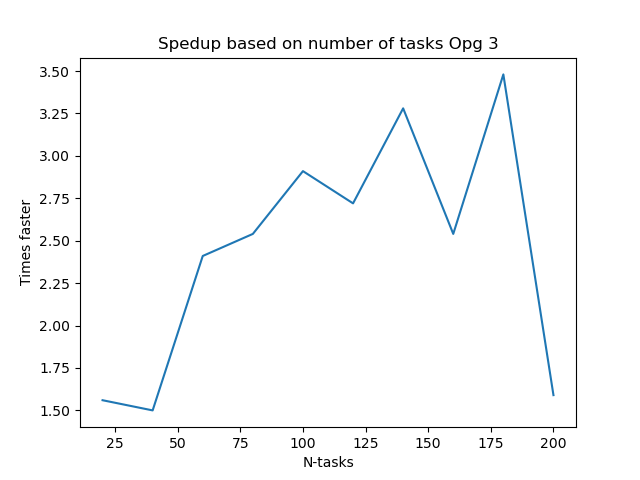
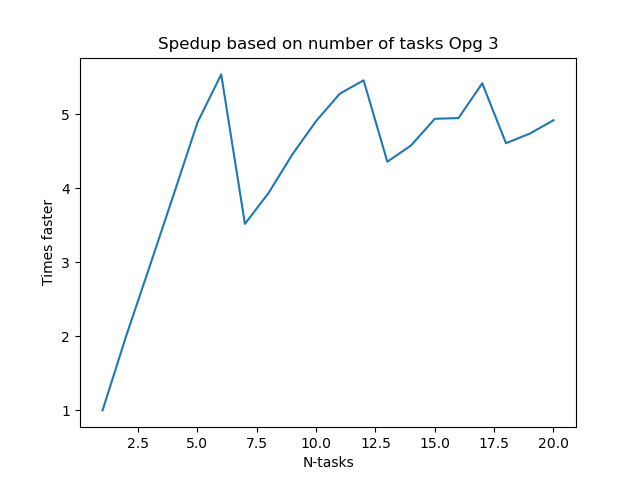
Fix

diff --git a/bin/plot.py b/bin/plot.py
@@ -1,23 +1,26 @@
 import matplotlib.pyplot as plt
-data_uden_warmup = [0.212975, 0.174472, 0.152527, 0.143930, 0.151221, 0.158211, 0.052915, 0.056080, 0.174958, 0.035867, 0.035641, 0.198618, 0.036725, 0.036281, 0.164042, 0.035632, 0.035314, 0.252750, 0.054047, 0.055133, 0.054456, 0.270833, 0.035526, 0.035689, 0.035712, 0.295864, 0.036604, 0.036659, 0.036165, 0.253618, 0.035586, 0.035273, 0.035436, 0.228434, 0.087285, 0.069701, 0.076515, 0.291319, 0.035509, 0.035267, 0.036243, 0.035281, 0.226859, 0.035588, 0.036879, 0.036349, 0.035470, 0.232586, 0.037855, 0.036242, 0.035504, 0.181810, 0.071426, 0.060176, 0.056568, 0.059156, 0.169686, 0.035356, 0.035713, 0.036220, 0.035240, 0.143114, 0.035612, 0.036310, 0.036103, 0.036290, 0.178495, 0.036316, 0.035474, 0.035189, 0.034996, 0.184261, 0.054259, 0.054409, 0.055066, 0.055134, 0.194244, 0.035546, 0.035313, 0.035770, 0.035252, 0.036234, 0.156307, 0.035343, 0.035610, 0.035480, 0.035948, 0.035123, 0.197573, 0.035245, 0.035861, 0.035846, 0.035458, 0.163210, 0.054041, 0.055246, 0.054969, 0.039240, 0.035314, 0.035199]
+# data_uden_warmup = [0.212975, 0.174472, 0.152527, 0.143930, 0.151221, 0.158211, 0.052915, 0.056080, 0.174958, 0.035867, 0.035641, 0.198618, 0.036725, 0.036281, 0.164042, 0.035632, 0.035314, 0.252750, 0.054047, 0.055133, 0.054456, 0.270833, 0.035526, 0.035689, 0.035712, 0.295864, 0.036604, 0.036659, 0.036165, 0.253618, 0.035586, 0.035273, 0.035436, 0.228434, 0.087285, 0.069701, 0.076515, 0.291319, 0.035509, 0.035267, 0.036243, 0.035281, 0.226859, 0.035588, 0.036879, 0.036349, 0.035470, 0.232586, 0.037855, 0.036242, 0.035504, 0.181810, 0.071426, 0.060176, 0.056568, 0.059156, 0.169686, 0.035356, 0.035713, 0.036220, 0.035240, 0.143114, 0.035612, 0.036310, 0.036103, 0.036290, 0.178495, 0.036316, 0.035474, 0.035189, 0.034996, 0.184261, 0.054259, 0.054409, 0.055066, 0.055134, 0.194244, 0.035546, 0.035313, 0.035770, 0.035252, 0.036234, 0.156307, 0.035343, 0.035610, 0.035480, 0.035948, 0.035123, 0.197573, 0.035245, 0.035861, 0.035846, 0.035458, 0.163210, 0.054041, 0.055246, 0.054969, 0.039240, 0.035314, 0.035199]
 
 # [0.210100, 0.172824, 0.149149, 0.151445, 0.142680, 0.150652, 0.053695, 0.056129, 0.168423, 0.037253, 0.036286, 0.171982, 0.036208, 0.036222, 0.171257, 0.056967, 0.036649, 0.217195, 0.055091, 0.053870, 0.053299, 0.286071, 0.035918, 0.037440, 0.036495, 0.261881, 0.037560, 0.037376, 0.036053, 0.290983, 0.036354, 0.035871, 0.035481, 0.203407, 0.052571, 0.053533, 0.054489, 0.167781, 0.036436, 0.036772, 0.036935, 0.035957, 0.190683, 0.036152, 0.035891, 0.036830, 0.036258, 0.227145, 0.035952, 0.036318, 0.036275, 0.151808, 0.060970, 0.055316, 0.058087, 0.057695, 0.211721, 0.039244, 0.036892, 0.035931, 0.037262, 0.160350, 0.038508, 0.036512, 0.037072, 0.035943, 0.151582, 0.040458, 0.036614, 0.037194, 0.036993, 0.036881, 0.229521, 0.057788, 0.056169, 0.058197, 0.059052, 0.196557, 0.038524, 0.035811, 0.035263, 0.036998, 0.164132, 0.036222, 0.036597, 0.037418, 0.036185, 0.290315, 0.037162, 0.036350, 0.036866, 0.037596, 0.186488, 0.058778, 0.055962, 0.057152, 0.037378, 0.036189, 0.154922, 0.038006]
 
+data_uden_warmup = [0.071208, 0.076072, 0.036135, 0.035931, 0.035929, 0.035828, 0.035991, 0.035846, 0.035779, 0.035838, 0.036056, 0.036857, 0.036987, 0.036890, 0.036483, 0.036633, 0.036615, 0.037141, 0.038525, 0.036773, 0.036768, 0.036673, 0.036252, 0.035837, 0.035794, 0.036264, 0.036982, 0.036272, 0.036628, 0.036643, 0.036748, 0.037149, 0.036687, 0.036746, 0.036709, 0.037203, 0.036690, 0.036668, 0.036770, 0.036769, 0.036644, 0.036698, 0.036764, 0.036710, 0.036658, 0.036709, 0.036670, 0.036729, 0.036689, 0.036458, 0.035901, 0.036006, 0.035976, 0.035764, 0.035764, 0.035720, 0.035725, 0.035958, 0.035889, 0.035927, 0.035953, 0.035869, 0.035876, 0.035947, 0.035793, 0.035762, 0.035836, 0.035747, 0.035723, 0.035709, 0.035752, 0.035680, 0.035724, 0.035736, 0.035786, 0.035718, 0.035803, 0.035856, 0.035937, 0.035906, 0.036014, 0.035821, 0.035819, 0.035843, 0.035786, 0.035783, 0.035769, 0.035759, 0.035796, 0.035770, 0.035769, 0.035857, 0.035873, 0.035822, 0.035799, 0.035827, 0.035804, 0.035931, 0.036024, 0.035750]
 plt.plot(data_uden_warmup)
 plt.title("Data without warmup")
 plt.xlabel("Run number")
 plt.ylabel("Time used")
-plt.ylim(0, 0.3)
+plt.ylim(0, 0.1)
 plt.show()
-data_med_warmup = [0.034043, 0.156196, 0.035006, 0.034551, 0.149085, 0.035379, 0.035815, 0.194780, 0.052405, 0.053229, 0.052648, 0.286280, 0.036541, 0.034793, 0.034691, 0.248357, 0.034977, 0.034857, 0.034638, 0.239770, 0.034603, 0.034438, 0.034769, 0.202390, 0.053852, 0.051952, 0.052590, 0.160135, 0.034777, 0.034644, 0.034507, 0.034786, 0.153302, 0.037990, 0.038093, 0.035133, 0.034621, 0.237810, 0.034601, 0.035039, 0.034939, 0.153307, 0.054377, 0.052937, 0.052407, 0.052147, 0.184519, 0.037653, 0.037487, 0.035076, 0.034520, 0.130491, 0.036564, 0.035962, 0.035719, 0.036909, 0.152262, 0.035139, 0.035151, 0.035051, 0.034223, 0.034726, 0.179313, 0.054484, 0.052073, 0.052272, 0.053131, 0.049795, 0.225421, 0.035480, 0.035120, 0.034826, 0.034832, 0.149016, 0.034398, 0.034435, 0.034687, 0.034477, 0.034883, 0.238061, 0.036239, 0.035414, 0.034888, 0.034924, 0.130374, 0.058083, 0.055655, 0.054646, 0.038286, 0.035027, 0.034708, 0.195417, 0.035366, 0.034704, 0.035498, 0.037927, 0.036112, 0.176814, 0.034816, 0.035398]
+
+# data_med_warmup = [0.034043, 0.156196, 0.035006, 0.034551, 0.149085, 0.035379, 0.035815, 0.194780, 0.052405, 0.053229, 0.052648, 0.286280, 0.036541, 0.034793, 0.034691, 0.248357, 0.034977, 0.034857, 0.034638, 0.239770, 0.034603, 0.034438, 0.034769, 0.202390, 0.053852, 0.051952, 0.052590, 0.160135, 0.034777, 0.034644, 0.034507, 0.034786, 0.153302, 0.037990, 0.038093, 0.035133, 0.034621, 0.237810, 0.034601, 0.035039, 0.034939, 0.153307, 0.054377, 0.052937, 0.052407, 0.052147, 0.184519, 0.037653, 0.037487, 0.035076, 0.034520, 0.130491, 0.036564, 0.035962, 0.035719, 0.036909, 0.152262, 0.035139, 0.035151, 0.035051, 0.034223, 0.034726, 0.179313, 0.054484, 0.052073, 0.052272, 0.053131, 0.049795, 0.225421, 0.035480, 0.035120, 0.034826, 0.034832, 0.149016, 0.034398, 0.034435, 0.034687, 0.034477, 0.034883, 0.238061, 0.036239, 0.035414, 0.034888, 0.034924, 0.130374, 0.058083, 0.055655, 0.054646, 0.038286, 0.035027, 0.034708, 0.195417, 0.035366, 0.034704, 0.035498, 0.037927, 0.036112, 0.176814, 0.034816, 0.035398]
 
 # [0.035246, 0.162305, 0.037611, 0.035229, 0.152381, 0.036491, 0.034936, 0.243561, 0.053046, 0.053301, 0.053463, 0.275273, 0.034740, 0.034732, 0.035859, 0.261714, 0.036340, 0.036247, 0.036363, 0.266772, 0.036028, 0.035496, 0.036511, 0.337484, 0.052800, 0.052928, 0.052343, 0.288694, 0.035230, 0.035042, 0.035934, 0.034998, 0.153642, 0.034739, 0.034726, 0.035281, 0.035018, 0.218525, 0.045610, 0.035420, 0.035376, 0.153175, 0.051872, 0.053154, 0.053158, 0.052064, 0.194558, 0.038916, 0.035339, 0.034915, 0.034739, 0.247466, 0.035708, 0.035685, 0.035099, 0.035341, 0.199714, 0.035477, 0.035321, 0.035493, 0.034747, 0.269677, 0.054646, 0.055469, 0.053283, 0.056764, 0.179253, 0.036197, 0.035806, 0.035980, 0.034967, 0.147534, 0.035557, 0.035171, 0.034972, 0.034901, 0.034920, 0.227790, 0.036402, 0.035638, 0.035113, 0.035376, 0.182977, 0.055264, 0.055899, 0.046147, 0.035067, 0.168669, 0.038052, 0.035806, 0.035085, 0.035328, 0.155241, 0.038602, 0.036511, 0.034902, 0.034834, 0.034605, 0.208266, 0.034975]
 
+data_med_warmup = [0.035943, 0.036787, 0.037468, 0.036651, 0.036852, 0.036796, 0.036723, 0.036658, 0.036726, 0.036514, 0.035810, 0.036717, 0.037222, 0.036676, 0.036700, 0.036784, 0.036308, 0.036577, 0.036681, 0.036739, 0.036617, 0.036669, 0.036626, 0.036618, 0.036697, 0.036687, 0.036726, 0.036702, 0.036667, 0.036654, 0.036604, 0.036709, 0.036669, 0.036669, 0.036656, 0.036705, 0.036710, 0.036617, 0.036616, 0.036229, 0.035859, 0.035977, 0.036043, 0.035740, 0.035779, 0.035923, 0.035782, 0.035803, 0.035781, 0.035838, 0.035751, 0.035752, 0.035776, 0.035834, 0.035749, 0.035763, 0.035730, 0.035748, 0.035672, 0.035861, 0.035789, 0.035751, 0.035797, 0.035856, 0.035809, 0.036284, 0.035861, 0.035853, 0.035795, 0.035795, 0.035929, 0.035787, 0.035874, 0.035916, 0.035766, 0.035822, 0.035895, 0.035914, 0.035795, 0.035867, 0.035833, 0.035798, 0.035825, 0.035910, 0.035834, 0.035804, 0.035734, 0.036222, 0.035797, 0.035776, 0.035830, 0.035959, 0.035982, 0.035814, 0.035908, 0.035899, 0.035977, 0.037467, 0.036208, 0.035844]
 plt.plot(data_med_warmup)
 plt.title("Data with warmup")
 plt.xlabel("Run number")
 plt.ylabel("Time used")
-plt.ylim(0, 0.3)
+plt.ylim(0, 0.1)
 plt.show()
 
 plt.hist(data_med_warmup)

diff --git a/src/plot.py b/src/plot.py
@@ -1,23 +1,26 @@
 import matplotlib.pyplot as plt
-data_uden_warmup = [0.212975, 0.174472, 0.152527, 0.143930, 0.151221, 0.158211, 0.052915, 0.056080, 0.174958, 0.035867, 0.035641, 0.198618, 0.036725, 0.036281, 0.164042, 0.035632, 0.035314, 0.252750, 0.054047, 0.055133, 0.054456, 0.270833, 0.035526, 0.035689, 0.035712, 0.295864, 0.036604, 0.036659, 0.036165, 0.253618, 0.035586, 0.035273, 0.035436, 0.228434, 0.087285, 0.069701, 0.076515, 0.291319, 0.035509, 0.035267, 0.036243, 0.035281, 0.226859, 0.035588, 0.036879, 0.036349, 0.035470, 0.232586, 0.037855, 0.036242, 0.035504, 0.181810, 0.071426, 0.060176, 0.056568, 0.059156, 0.169686, 0.035356, 0.035713, 0.036220, 0.035240, 0.143114, 0.035612, 0.036310, 0.036103, 0.036290, 0.178495, 0.036316, 0.035474, 0.035189, 0.034996, 0.184261, 0.054259, 0.054409, 0.055066, 0.055134, 0.194244, 0.035546, 0.035313, 0.035770, 0.035252, 0.036234, 0.156307, 0.035343, 0.035610, 0.035480, 0.035948, 0.035123, 0.197573, 0.035245, 0.035861, 0.035846, 0.035458, 0.163210, 0.054041, 0.055246, 0.054969, 0.039240, 0.035314, 0.035199]
+# data_uden_warmup = [0.212975, 0.174472, 0.152527, 0.143930, 0.151221, 0.158211, 0.052915, 0.056080, 0.174958, 0.035867, 0.035641, 0.198618, 0.036725, 0.036281, 0.164042, 0.035632, 0.035314, 0.252750, 0.054047, 0.055133, 0.054456, 0.270833, 0.035526, 0.035689, 0.035712, 0.295864, 0.036604, 0.036659, 0.036165, 0.253618, 0.035586, 0.035273, 0.035436, 0.228434, 0.087285, 0.069701, 0.076515, 0.291319, 0.035509, 0.035267, 0.036243, 0.035281, 0.226859, 0.035588, 0.036879, 0.036349, 0.035470, 0.232586, 0.037855, 0.036242, 0.035504, 0.181810, 0.071426, 0.060176, 0.056568, 0.059156, 0.169686, 0.035356, 0.035713, 0.036220, 0.035240, 0.143114, 0.035612, 0.036310, 0.036103, 0.036290, 0.178495, 0.036316, 0.035474, 0.035189, 0.034996, 0.184261, 0.054259, 0.054409, 0.055066, 0.055134, 0.194244, 0.035546, 0.035313, 0.035770, 0.035252, 0.036234, 0.156307, 0.035343, 0.035610, 0.035480, 0.035948, 0.035123, 0.197573, 0.035245, 0.035861, 0.035846, 0.035458, 0.163210, 0.054041, 0.055246, 0.054969, 0.039240, 0.035314, 0.035199]
 
 # [0.210100, 0.172824, 0.149149, 0.151445, 0.142680, 0.150652, 0.053695, 0.056129, 0.168423, 0.037253, 0.036286, 0.171982, 0.036208, 0.036222, 0.171257, 0.056967, 0.036649, 0.217195, 0.055091, 0.053870, 0.053299, 0.286071, 0.035918, 0.037440, 0.036495, 0.261881, 0.037560, 0.037376, 0.036053, 0.290983, 0.036354, 0.035871, 0.035481, 0.203407, 0.052571, 0.053533, 0.054489, 0.167781, 0.036436, 0.036772, 0.036935, 0.035957, 0.190683, 0.036152, 0.035891, 0.036830, 0.036258, 0.227145, 0.035952, 0.036318, 0.036275, 0.151808, 0.060970, 0.055316, 0.058087, 0.057695, 0.211721, 0.039244, 0.036892, 0.035931, 0.037262, 0.160350, 0.038508, 0.036512, 0.037072, 0.035943, 0.151582, 0.040458, 0.036614, 0.037194, 0.036993, 0.036881, 0.229521, 0.057788, 0.056169, 0.058197, 0.059052, 0.196557, 0.038524, 0.035811, 0.035263, 0.036998, 0.164132, 0.036222, 0.036597, 0.037418, 0.036185, 0.290315, 0.037162, 0.036350, 0.036866, 0.037596, 0.186488, 0.058778, 0.055962, 0.057152, 0.037378, 0.036189, 0.154922, 0.038006]
 
+data_uden_warmup = [0.071208, 0.076072, 0.036135, 0.035931, 0.035929, 0.035828, 0.035991, 0.035846, 0.035779, 0.035838, 0.036056, 0.036857, 0.036987, 0.036890, 0.036483, 0.036633, 0.036615, 0.037141, 0.038525, 0.036773, 0.036768, 0.036673, 0.036252, 0.035837, 0.035794, 0.036264, 0.036982, 0.036272, 0.036628, 0.036643, 0.036748, 0.037149, 0.036687, 0.036746, 0.036709, 0.037203, 0.036690, 0.036668, 0.036770, 0.036769, 0.036644, 0.036698, 0.036764, 0.036710, 0.036658, 0.036709, 0.036670, 0.036729, 0.036689, 0.036458, 0.035901, 0.036006, 0.035976, 0.035764, 0.035764, 0.035720, 0.035725, 0.035958, 0.035889, 0.035927, 0.035953, 0.035869, 0.035876, 0.035947, 0.035793, 0.035762, 0.035836, 0.035747, 0.035723, 0.035709, 0.035752, 0.035680, 0.035724, 0.035736, 0.035786, 0.035718, 0.035803, 0.035856, 0.035937, 0.035906, 0.036014, 0.035821, 0.035819, 0.035843, 0.035786, 0.035783, 0.035769, 0.035759, 0.035796, 0.035770, 0.035769, 0.035857, 0.035873, 0.035822, 0.035799, 0.035827, 0.035804, 0.035931, 0.036024, 0.035750]
 plt.plot(data_uden_warmup)
 plt.title("Data without warmup")
 plt.xlabel("Run number")
 plt.ylabel("Time used")
-plt.ylim(0, 0.3)
+plt.ylim(0, 0.1)
 plt.show()
-data_med_warmup = [0.034043, 0.156196, 0.035006, 0.034551, 0.149085, 0.035379, 0.035815, 0.194780, 0.052405, 0.053229, 0.052648, 0.286280, 0.036541, 0.034793, 0.034691, 0.248357, 0.034977, 0.034857, 0.034638, 0.239770, 0.034603, 0.034438, 0.034769, 0.202390, 0.053852, 0.051952, 0.052590, 0.160135, 0.034777, 0.034644, 0.034507, 0.034786, 0.153302, 0.037990, 0.038093, 0.035133, 0.034621, 0.237810, 0.034601, 0.035039, 0.034939, 0.153307, 0.054377, 0.052937, 0.052407, 0.052147, 0.184519, 0.037653, 0.037487, 0.035076, 0.034520, 0.130491, 0.036564, 0.035962, 0.035719, 0.036909, 0.152262, 0.035139, 0.035151, 0.035051, 0.034223, 0.034726, 0.179313, 0.054484, 0.052073, 0.052272, 0.053131, 0.049795, 0.225421, 0.035480, 0.035120, 0.034826, 0.034832, 0.149016, 0.034398, 0.034435, 0.034687, 0.034477, 0.034883, 0.238061, 0.036239, 0.035414, 0.034888, 0.034924, 0.130374, 0.058083, 0.055655, 0.054646, 0.038286, 0.035027, 0.034708, 0.195417, 0.035366, 0.034704, 0.035498, 0.037927, 0.036112, 0.176814, 0.034816, 0.035398]
+
+# data_med_warmup = [0.034043, 0.156196, 0.035006, 0.034551, 0.149085, 0.035379, 0.035815, 0.194780, 0.052405, 0.053229, 0.052648, 0.286280, 0.036541, 0.034793, 0.034691, 0.248357, 0.034977, 0.034857, 0.034638, 0.239770, 0.034603, 0.034438, 0.034769, 0.202390, 0.053852, 0.051952, 0.052590, 0.160135, 0.034777, 0.034644, 0.034507, 0.034786, 0.153302, 0.037990, 0.038093, 0.035133, 0.034621, 0.237810, 0.034601, 0.035039, 0.034939, 0.153307, 0.054377, 0.052937, 0.052407, 0.052147, 0.184519, 0.037653, 0.037487, 0.035076, 0.034520, 0.130491, 0.036564, 0.035962, 0.035719, 0.036909, 0.152262, 0.035139, 0.035151, 0.035051, 0.034223, 0.034726, 0.179313, 0.054484, 0.052073, 0.052272, 0.053131, 0.049795, 0.225421, 0.035480, 0.035120, 0.034826, 0.034832, 0.149016, 0.034398, 0.034435, 0.034687, 0.034477, 0.034883, 0.238061, 0.036239, 0.035414, 0.034888, 0.034924, 0.130374, 0.058083, 0.055655, 0.054646, 0.038286, 0.035027, 0.034708, 0.195417, 0.035366, 0.034704, 0.035498, 0.037927, 0.036112, 0.176814, 0.034816, 0.035398]
 
 # [0.035246, 0.162305, 0.037611, 0.035229, 0.152381, 0.036491, 0.034936, 0.243561, 0.053046, 0.053301, 0.053463, 0.275273, 0.034740, 0.034732, 0.035859, 0.261714, 0.036340, 0.036247, 0.036363, 0.266772, 0.036028, 0.035496, 0.036511, 0.337484, 0.052800, 0.052928, 0.052343, 0.288694, 0.035230, 0.035042, 0.035934, 0.034998, 0.153642, 0.034739, 0.034726, 0.035281, 0.035018, 0.218525, 0.045610, 0.035420, 0.035376, 0.153175, 0.051872, 0.053154, 0.053158, 0.052064, 0.194558, 0.038916, 0.035339, 0.034915, 0.034739, 0.247466, 0.035708, 0.035685, 0.035099, 0.035341, 0.199714, 0.035477, 0.035321, 0.035493, 0.034747, 0.269677, 0.054646, 0.055469, 0.053283, 0.056764, 0.179253, 0.036197, 0.035806, 0.035980, 0.034967, 0.147534, 0.035557, 0.035171, 0.034972, 0.034901, 0.034920, 0.227790, 0.036402, 0.035638, 0.035113, 0.035376, 0.182977, 0.055264, 0.055899, 0.046147, 0.035067, 0.168669, 0.038052, 0.035806, 0.035085, 0.035328, 0.155241, 0.038602, 0.036511, 0.034902, 0.034834, 0.034605, 0.208266, 0.034975]
 
+data_med_warmup = [0.035943, 0.036787, 0.037468, 0.036651, 0.036852, 0.036796, 0.036723, 0.036658, 0.036726, 0.036514, 0.035810, 0.036717, 0.037222, 0.036676, 0.036700, 0.036784, 0.036308, 0.036577, 0.036681, 0.036739, 0.036617, 0.036669, 0.036626, 0.036618, 0.036697, 0.036687, 0.036726, 0.036702, 0.036667, 0.036654, 0.036604, 0.036709, 0.036669, 0.036669, 0.036656, 0.036705, 0.036710, 0.036617, 0.036616, 0.036229, 0.035859, 0.035977, 0.036043, 0.035740, 0.035779, 0.035923, 0.035782, 0.035803, 0.035781, 0.035838, 0.035751, 0.035752, 0.035776, 0.035834, 0.035749, 0.035763, 0.035730, 0.035748, 0.035672, 0.035861, 0.035789, 0.035751, 0.035797, 0.035856, 0.035809, 0.036284, 0.035861, 0.035853, 0.035795, 0.035795, 0.035929, 0.035787, 0.035874, 0.035916, 0.035766, 0.035822, 0.035895, 0.035914, 0.035795, 0.035867, 0.035833, 0.035798, 0.035825, 0.035910, 0.035834, 0.035804, 0.035734, 0.036222, 0.035797, 0.035776, 0.035830, 0.035959, 0.035982, 0.035814, 0.035908, 0.035899, 0.035977, 0.037467, 0.036208, 0.035844]
 plt.plot(data_med_warmup)
 plt.title("Data with warmup")
 plt.xlabel("Run number")
 plt.ylabel("Time used")
-plt.ylim(0, 0.3)
+plt.ylim(0, 0.1)
 plt.show()
 
 plt.hist(data_med_warmup)

diff --git a/bin/plot4.py b/bin/plot4.py
@@ -7,12 +7,34 @@ from seaborn import heatmap
 # [0.056959, 0.047256, 0.024136, 0.026478, 0.024979]
 # ] # old
 
+# data_4 = [
+#     [1.35, 2.37, 2.59, 2.76, 2.81],
+#     [0.88, 1.47, 2.11, 3.20, 1.33],
+#     [1.47, 2.13, 1.99, 2.63, 3.07]
+# ]
+
 data_4 = [
-    [1.35, 2.37, 2.59, 2.76, 2.81],
-    [0.88, 1.47, 2.11, 3.20, 1.33],
-    [1.47, 2.13, 1.99, 2.63, 3.07]
+    [1.09, 2.16, 4.06, 6.30, 5.98],
+    [1.06, 2.11, 4.15, 5.79, 5.70],
+    [1.01, 1.99, 3.28, 4.34, 4.87]
 ]
 
+
+# threads-1-tasks-10.txt: Average speedup:    1.01
+# threads-1-tasks-100.txt: Average speedup:   1.06
+# threads-1-tasks-1000.txt: Average speedup:  1.09
+# threads-2-tasks-10.txt: Average speedup:    1.99
+# threads-2-tasks-100.txt: Average speedup:   2.11
+# threads-2-tasks-1000.txt: Average speedup:  2.16
+# threads-4-tasks-10.txt: Average speedup:    3.28
+# threads-4-tasks-100.txt: Average speedup:   4.15
+# threads-4-tasks-1000.txt: Average speedup:  4.06
+# threads-8-tasks-10.txt: Average speedup:    4.34
+# threads-8-tasks-100.txt: Average speedup:   5.79
+# threads-8-tasks-1000.txt: Average speedup:  6.30
+# threads-16-tasks-10.txt: Average speedup:   4.87
+# threads-16-tasks-100.txt: Average speedup:  5.70
+# threads-16-tasks-1000.txt: Average speedup: 5.98
 
 # data_5 = [[0.106361, 0.079162, 0.078486, 0.049976, 0.034296], [0.091244, 0.079936, 0.047931, 0.051310, 0.040113], [0.106956, 0.078486, 0.056372, 0.049171, 0.049484]] # old
 

diff --git a/src/plot4.py b/src/plot4.py
@@ -7,12 +7,34 @@ from seaborn import heatmap
 # [0.056959, 0.047256, 0.024136, 0.026478, 0.024979]
 # ] # old
 
+# data_4 = [
+#     [1.35, 2.37, 2.59, 2.76, 2.81],
+#     [0.88, 1.47, 2.11, 3.20, 1.33],
+#     [1.47, 2.13, 1.99, 2.63, 3.07]
+# ]
+
 data_4 = [
-    [1.35, 2.37, 2.59, 2.76, 2.81],
-    [0.88, 1.47, 2.11, 3.20, 1.33],
-    [1.47, 2.13, 1.99, 2.63, 3.07]
+    [1.09, 2.16, 4.06, 6.30, 5.98],
+    [1.06, 2.11, 4.15, 5.79, 5.70],
+    [1.01, 1.99, 3.28, 4.34, 4.87]
 ]
 
+
+# threads-1-tasks-10.txt: Average speedup:    1.01
+# threads-1-tasks-100.txt: Average speedup:   1.06
+# threads-1-tasks-1000.txt: Average speedup:  1.09
+# threads-2-tasks-10.txt: Average speedup:    1.99
+# threads-2-tasks-100.txt: Average speedup:   2.11
+# threads-2-tasks-1000.txt: Average speedup:  2.16
+# threads-4-tasks-10.txt: Average speedup:    3.28
+# threads-4-tasks-100.txt: Average speedup:   4.15
+# threads-4-tasks-1000.txt: Average speedup:  4.06
+# threads-8-tasks-10.txt: Average speedup:    4.34
+# threads-8-tasks-100.txt: Average speedup:   5.79
+# threads-8-tasks-1000.txt: Average speedup:  6.30
+# threads-16-tasks-10.txt: Average speedup:   4.87
+# threads-16-tasks-100.txt: Average speedup:  5.70
+# threads-16-tasks-1000.txt: Average speedup: 5.98
 
 # data_5 = [[0.106361, 0.079162, 0.078486, 0.049976, 0.034296], [0.091244, 0.079936, 0.047931, 0.051310, 0.040113], [0.106956, 0.078486, 0.056372, 0.049171, 0.049484]] # old
 

diff --git a/bin/plot3.py b/bin/plot3.py
@@ -1,10 +1,12 @@
 import matplotlib.pyplot as plt
 
-x = [20, 40, 60, 80, 100, 120, 140, 160, 180, 200, 300, 400, 1000, 10000]
+x = [1, 2, 3, 4, 5, 6, 7, 8, 9, 10, 11, 12, 13, 14, 15, 16, 17, 18, 19, 20, 40, 60, 80, 100, 120, 140, 160, 180, 200, 300, 400, 1000, 10000]
 # y_3 = [1.67, 2.83, 2.75, 2.11, 2.49, 1.78, 2.72, 2.29, 2.13, 3.25, 2.22, 1.95, 2.62, 2.01] # old
 # y_5 = [2.11, 2.17, 2.34, 2.35, 2.42, 1.59, 1.87, 1.99, 2.00, 1.87, 1.92, 1.87, 2.11, 1.95]  # old
-y_3 = [1.56, 1.50, 2.41, 2.54, 2.91, 2.72, 3.28, 2.54, 3.48, 1.59, 2.88, 2.42, 3.43, 1.89]
+# y_3 = [1.56, 1.50, 2.41, 2.54, 2.91, 2.72, 3.28, 2.54, 3.48, 1.59, 2.88, 2.42, 3.43, 1.89]
 y_5 = [1.48, 1.95, 2.71, 2.92, 2.24, 2.55, 2.13, 2.15, 2.39, 2.10, 2.47, 2.09, 2.60, 2.60]
+
+y_3 = [1.00, 2.01, 2.96, 3.92, 4.89, 5.54, 3.52, 3.94, 4.46, 4.91, 5.28, 5.46, 4.36, 4.58, 4.94, 4.95, 5.42, 4.61, 4.74, 4.92, 5.49, 5.62, 5.70, 5.90, 5.91, 5.95, 6.01, 5.96, 5.96, 5.56, 5.78, 5.06, 2.01]
 
 
 def p(y, t):
@@ -14,7 +16,13 @@ def p(y, t):
     plt.ylabel("Times faster")
     plt.show()
 
-    plt.plot(x[:10], y[:10])
+    plt.plot(x[:20], y[:20])
+    plt.title("Spedup based on number of tasks " + t)
+    plt.xlabel("N-tasks")
+    plt.ylabel("Times faster")
+    plt.show()
+
+    plt.plot(x[19:29], y[19:29])
     plt.title("Spedup based on number of tasks " + t)
     plt.xlabel("N-tasks")
     plt.ylabel("Times faster")

diff --git a/src/plot3.py b/src/plot3.py
@@ -1,10 +1,12 @@
 import matplotlib.pyplot as plt
 
-x = [20, 40, 60, 80, 100, 120, 140, 160, 180, 200, 300, 400, 1000, 10000]
+x = [1, 2, 3, 4, 5, 6, 7, 8, 9, 10, 11, 12, 13, 14, 15, 16, 17, 18, 19, 20, 40, 60, 80, 100, 120, 140, 160, 180, 200, 300, 400, 1000, 10000]
 # y_3 = [1.67, 2.83, 2.75, 2.11, 2.49, 1.78, 2.72, 2.29, 2.13, 3.25, 2.22, 1.95, 2.62, 2.01] # old
 # y_5 = [2.11, 2.17, 2.34, 2.35, 2.42, 1.59, 1.87, 1.99, 2.00, 1.87, 1.92, 1.87, 2.11, 1.95]  # old
-y_3 = [1.56, 1.50, 2.41, 2.54, 2.91, 2.72, 3.28, 2.54, 3.48, 1.59, 2.88, 2.42, 3.43, 1.89]
+# y_3 = [1.56, 1.50, 2.41, 2.54, 2.91, 2.72, 3.28, 2.54, 3.48, 1.59, 2.88, 2.42, 3.43, 1.89]
 y_5 = [1.48, 1.95, 2.71, 2.92, 2.24, 2.55, 2.13, 2.15, 2.39, 2.10, 2.47, 2.09, 2.60, 2.60]
+
+y_3 = [1.00, 2.01, 2.96, 3.92, 4.89, 5.54, 3.52, 3.94, 4.46, 4.91, 5.28, 5.46, 4.36, 4.58, 4.94, 4.95, 5.42, 4.61, 4.74, 4.92, 5.49, 5.62, 5.70, 5.90, 5.91, 5.95, 6.01, 5.96, 5.96, 5.56, 5.78, 5.06, 2.01]
 
 
 def p(y, t):
@@ -14,7 +16,13 @@ def p(y, t):
     plt.ylabel("Times faster")
     plt.show()
 
-    plt.plot(x[:10], y[:10])
+    plt.plot(x[:20], y[:20])
+    plt.title("Spedup based on number of tasks " + t)
+    plt.xlabel("N-tasks")
+    plt.ylabel("Times faster")
+    plt.show()
+
+    plt.plot(x[19:29], y[19:29])
     plt.title("Spedup based on number of tasks " + t)
     plt.xlabel("N-tasks")
     plt.ylabel("Times faster")
